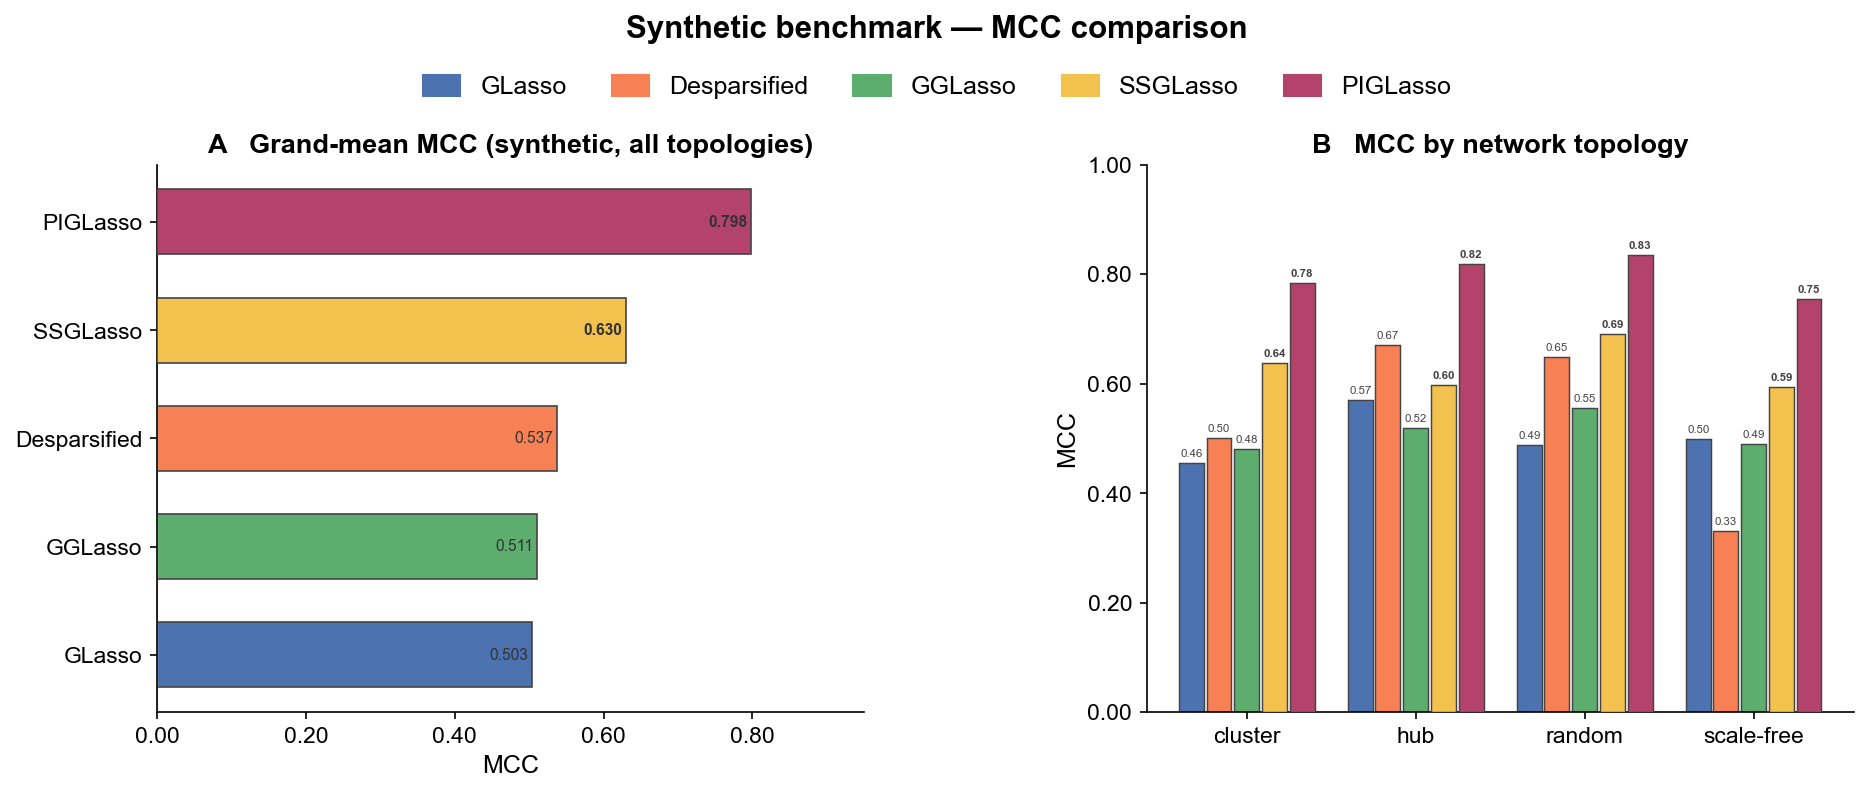
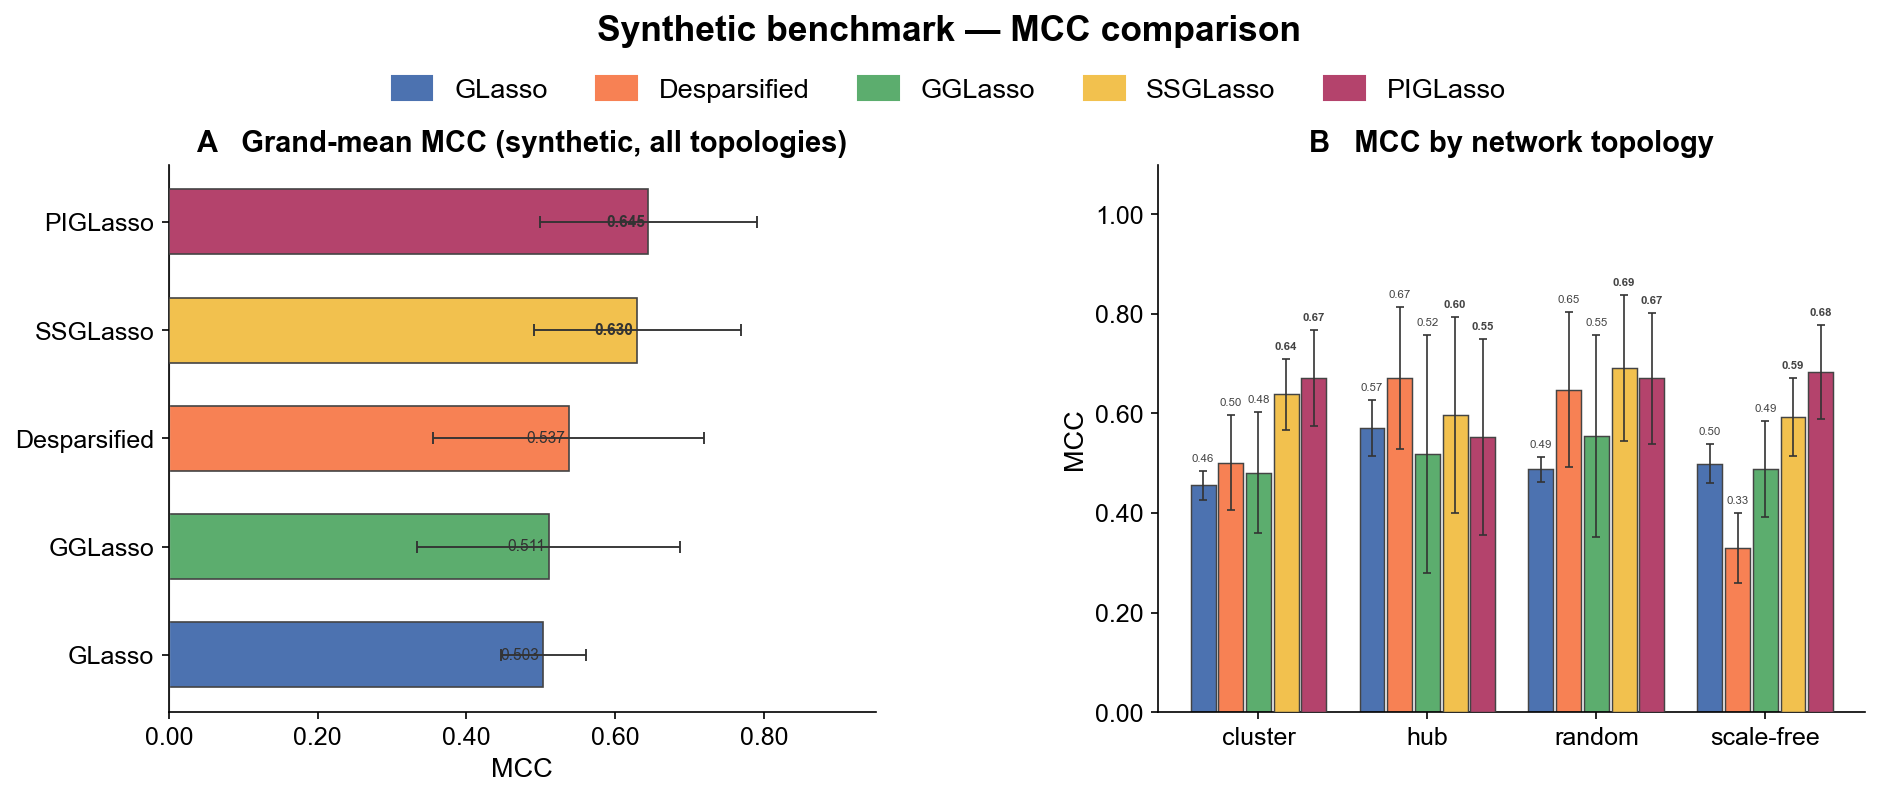
MCC vs sample size benchmark (p=160, ssglasso + piglasso_oracle_n02)
- run_synthetic.py: add ssglasso method; add 8 n-sweep configs (n100-n1500 at p=160)
- jobs/mcc_vs_n.job: SLURM array for 1280 tasks (8 n-vals x 4 topos x 2 methods x 20 reps)
- scripts/plot_mcc_vs_n.py: MCC vs n line plot with SD error bands and caps
- scripts/rebuild_metrics_summary.py: standalone local re-aggregation script
- jobs/aggregate.job: also glob glasso/gglasso/desparsified/piglasso synthetic dirs
- plot_mcc_synthetic_comparison.py: use piglasso_oracle_n02 as PIGLasso (3-config fair comparison)
- Updated metrics_summary (17863 rows) and regenerated mcc_synthetic_comparison figures

diff --git a/scripts/plot_mcc_vs_n.py b/scripts/plot_mcc_vs_n.py
@@ -1,0 +1,145 @@
+"""
+plot_mcc_vs_n.py
+-----------------
+MCC vs sample size (fixed p=160) for SSGLasso and PIGLasso.
+Reads from results/metrics_summary.csv.
+
+Usage:
+    cd NODIS/
+    python scripts/plot_mcc_vs_n.py
+    python scripts/plot_mcc_vs_n.py --out figures/mcc_vs_n.pdf
+"""
+
+import argparse
+import os
+import warnings
+
+import matplotlib
+import matplotlib.pyplot as plt
+import matplotlib.ticker as mticker
+import numpy as np
+import pandas as pd
+
+warnings.filterwarnings("ignore")
+
+matplotlib.rcParams.update({
+    "font.family":       "sans-serif",
+    "font.sans-serif":   ["Arial", "Helvetica", "DejaVu Sans"],
+    "font.size":         12,
+    "axes.labelsize":    13,
+    "axes.titlesize":    14,
+    "xtick.labelsize":   12,
+    "ytick.labelsize":   12,
+    "legend.fontsize":   12,
+    "figure.dpi":        300,
+    "axes.spines.top":   False,
+    "axes.spines.right": False,
+    "axes.linewidth":    0.8,
+    "xtick.major.width": 0.8,
+    "ytick.major.width": 0.8,
+    "xtick.major.size":  3.5,
+    "ytick.major.size":  3.5,
+    "pdf.fonttype":      42,
+    "ps.fonttype":       42,
+})
+
+N_VALS   = [100, 300, 500, 700, 900, 1100, 1300, 1500]
+P        = 160
+CONFIGS  = [f"n{n}p{P}" for n in N_VALS]
+
+METHODS = {
+    "ssglasso":            ("SSGLasso", "#F2C14E", "o"),
+    "piglasso_oracle_n02": ("PIGLasso", "#B4436C", "o"),
+}
+
+RESULTS_DIR = os.path.join(os.path.dirname(__file__), "..", "results")
+SUMMARY_CSV = os.path.join(RESULTS_DIR, "metrics_summary.csv")
+FIGURES_DIR = os.path.join(os.path.dirname(os.path.abspath(__file__)), "..", "figures")
+
+
+def build_figure(df: pd.DataFrame) -> plt.Figure:
+    sub = df[
+        (df["benchmark"] == "synthetic") &
+        (df["config"].isin(CONFIGS))
+    ].copy()
+
+    fig, ax = plt.subplots(figsize=(8, 5))
+    fig.subplots_adjust(left=0.10, right=0.97, top=0.88, bottom=0.13)
+
+    for method, (label, color, marker) in METHODS.items():
+        means, sds, ns = [], [], []
+        for n in N_VALS:
+            config = f"n{n}p{P}"
+            vals = sub.loc[
+                (sub["method"] == method) & (sub["config"] == config), "mcc"
+            ].dropna()
+            if len(vals) == 0:
+                means.append(np.nan)
+                sds.append(np.nan)
+            else:
+                means.append(vals.mean())
+                sds.append(vals.std())
+            ns.append(len(vals))
+
+        means = np.array(means)
+        sds   = np.array(sds)
+        mask  = ~np.isnan(means)
+
+        ax.plot(np.array(N_VALS)[mask], means[mask],
+                color=color, marker=marker, markersize=5,
+                linewidth=1.8, label=label, zorder=3)
+        ax.fill_between(np.array(N_VALS)[mask],
+                        (means - sds)[mask], (means + sds)[mask],
+                        color=color, alpha=0.15, zorder=2)
+        ax.errorbar(np.array(N_VALS)[mask], means[mask], yerr=sds[mask],
+                    fmt="none", ecolor=color, elinewidth=0.9,
+                    capsize=4, capthick=0.9, zorder=4)
+
+        for n, m, s in zip(np.array(N_VALS)[mask], means[mask], sds[mask]):
+            ax.text(n, m + s + 0.012, f"{m:.2f}",
+                    ha="center", va="bottom", fontsize=8, color=color)
+
+    ax.axhline(0.5, color="#bbbbbb", linewidth=0.8, linestyle="--",
+               label="Random baseline (0.5)", zorder=1)
+
+    ax.set_xlabel("Sample size (n)")
+    ax.set_ylabel("MCC")
+    ax.set_xlim(0, N_VALS[-1] + 100)
+    ax.set_ylim(0.0, 1.05)
+    ax.set_xticks(N_VALS)
+    ax.yaxis.set_major_formatter(mticker.FuncFormatter(lambda v, _: f"{v:.1f}"))
+    ax.legend(frameon=False, loc="lower right")
+    ax.set_title(f"MCC vs sample size  (p = {P}, all topologies)",
+                 fontweight="bold", pad=8)
+
+    return fig
+
+
+def main():
+    parser = argparse.ArgumentParser()
+    parser.add_argument("--out", default=os.path.join(FIGURES_DIR, "mcc_vs_n.pdf"))
+    parser.add_argument("--dpi", type=int, default=300)
+    args = parser.parse_args()
+
+    print("Loading data …")
+    df = pd.read_csv(SUMMARY_CSV, low_memory=False)
+    configs_found = df.loc[df["config"].isin(CONFIGS), "config"].unique()
+    print(f"  n-sweep configs found: {sorted(configs_found)}")
+
+    print("Building figure …")
+    fig = build_figure(df)
+
+    os.makedirs(os.path.dirname(os.path.abspath(args.out)), exist_ok=True)
+    fig.savefig(args.out, dpi=args.dpi, bbox_inches="tight")
+    print(f"Saved → {args.out}")
+
+    if args.out.endswith(".pdf"):
+        png_out = args.out.replace(".pdf", ".png")
+        fig.savefig(png_out, dpi=150, bbox_inches="tight")
+        print(f"Saved → {png_out}")
+
+    plt.close(fig)
+
+
+if __name__ == "__main__":
+    main()

diff --git a/scripts/rebuild_metrics_summary.py b/scripts/rebuild_metrics_summary.py
@@ -1,0 +1,51 @@
+"""
+Rebuild results/metrics_summary.csv from all per-method result directories.
+
+Usage (from NODIS/ root):
+    python scripts/rebuild_metrics_summary.py
+"""
+import pathlib
+import pandas as pd
+
+NODIS_DIR = pathlib.Path(__file__).resolve().parents[1]
+results = NODIS_DIR / "results"
+summary_path = results / "metrics_summary.csv"
+
+sections = {
+    "synthetic": (list(results.glob("raw/results_*.csv")) +
+                  list(results.glob("glasso/synthetic/results_*.csv")) +
+                  list(results.glob("gglasso/synthetic/results_*.csv")) +
+                  list(results.glob("desparsified/synthetic/results_*.csv")) +
+                  list(results.glob("piglasso/synthetic/results_*.csv"))),
+    "dream5":    list(results.glob("dream5/dream5_*.csv")),
+    "diffusion": list(results.glob("diffusion/diffusion_*.csv")),
+    "sergio":    list(results.glob("sergio/sergio_*.csv")),
+}
+
+new_dfs = []
+found_benchmarks = set()
+for source, files in sections.items():
+    if not files:
+        print(f"  {source}: no files found — skipping")
+        continue
+    df = pd.concat([pd.read_csv(f) for f in files], ignore_index=True)
+    df["benchmark"] = source
+    new_dfs.append(df)
+    found_benchmarks.add(source)
+    print(f"  {source}: {len(files)} files, {len(df)} rows")
+
+if not new_dfs:
+    print("No result files found.")
+else:
+    new_data = pd.concat(new_dfs, ignore_index=True)
+
+    if summary_path.exists():
+        existing = pd.read_csv(summary_path)
+        keep = existing[~existing["benchmark"].isin(found_benchmarks)]
+        print(f"  preserving {len(keep)} existing rows from untouched benchmarks")
+        summary = pd.concat([keep, new_data], ignore_index=True)
+    else:
+        summary = new_data
+
+    summary.to_csv(summary_path, index=False)
+    print(f"Saved {len(summary)} total rows → {summary_path}")

diff --git a/scripts/plot_mcc_synthetic_comparison.py b/scripts/plot_mcc_synthetic_comparison.py
@@ -96,7 +96,7 @@ FIGURES_DIR = os.path.join(os.path.dirname(os.path.abspath(__file__)), "..", "fi
 # ---------------------------------------------------------------------------
 
 def _grand_means(df: pd.DataFrame) -> pd.DataFrame:
-    """Mean MCC across small3 configs, all topologies, per method."""
+    """Mean ± SD MCC across small3 configs, all topologies, per method."""
     small3 = df[
         (df["benchmark"] == "synthetic") &
         (df["config"].isin(CONFIGS_SMALL3))
@@ -105,12 +105,12 @@ def _grand_means(df: pd.DataFrame) -> pd.DataFrame:
     for m in METHODS_ORDER:
         vals = small3.loc[small3["method"] == m, "mcc"].dropna()
         if len(vals):
-            rows.append({"method": m, "MCC": vals.mean()})
+            rows.append({"method": m, "MCC": vals.mean(), "SD": vals.std()})
     return pd.DataFrame(rows)
 
 
 def _per_topology(df: pd.DataFrame) -> pd.DataFrame:
-    """Mean MCC per (method, topology) across small3 configs."""
+    """Mean ± SD MCC per (method, topology) across small3 configs."""
     small3 = df[
         (df["benchmark"] == "synthetic") &
         (df["config"].isin(CONFIGS_SMALL3))
@@ -122,7 +122,8 @@ def _per_topology(df: pd.DataFrame) -> pd.DataFrame:
                 (small3["method"] == m) & (small3["topology"] == topo), "mcc"
             ].dropna()
             if len(vals):
-                rows.append({"method": m, "topology": topo, "MCC": vals.mean()})
+                rows.append({"method": m, "topology": topo,
+                             "MCC": vals.mean(), "SD": vals.std()})
     return pd.DataFrame(rows)
 
 
@@ -134,15 +135,18 @@ def _grand_mean_bars(ax, grand: pd.DataFrame, title: str):
     grand = grand.sort_values("MCC", ascending=True).reset_index(drop=True)
     methods = grand["method"].tolist()
     values  = grand["MCC"].tolist()
+    sds     = grand["SD"].tolist()
     n = len(methods)
 
-    for i, (m, v) in enumerate(zip(methods, values)):
+    for i, (m, v, sd) in enumerate(zip(methods, values, sds)):
         color = PALETTE[m]
         lw    = 0.8
         ec    = "#444444"
         zo    = ZO_PIG if m in PIG_METHODS else ZO_BASE
         ax.barh(i, v, color=color, edgecolor=ec, linewidth=lw,
                 zorder=zo, height=0.6)
+        ax.errorbar(v, i, xerr=sd, fmt="none", ecolor="#333333",
+                    elinewidth=0.9, capsize=3, capthick=0.9, zorder=zo + 1)
 
         ax.text(v - 0.005, i, f"{v:.3f}", va="center", ha="right",
                 fontsize=7.5,
@@ -177,6 +181,7 @@ def _per_topology_bars(ax, per_topo: pd.DataFrame, title: str):
             if row.empty:
                 continue
             v     = float(row["MCC"].iloc[0])
+            sd    = float(row["SD"].iloc[0])
             xp    = ti + offsets[mi]
             color = PALETTE[m]
             lw    = 0.7
@@ -184,8 +189,10 @@ def _per_topology_bars(ax, per_topo: pd.DataFrame, title: str):
             zo    = ZO_PIG if m in PIG_METHODS else ZO_BASE
             ax.bar(xp, v, bw * 0.90, color=color, edgecolor=ec,
                    linewidth=lw, zorder=zo)
+            ax.errorbar(xp, v, yerr=sd, fmt="none", ecolor="#333333",
+                        elinewidth=0.8, capsize=2, capthick=0.8, zorder=zo + 1)
 
-            ax.text(xp, v + 0.008, f"{v:.2f}", ha="center", va="bottom",
+            ax.text(xp, v + sd + 0.015, f"{v:.2f}", ha="center", va="bottom",
                     fontsize=5.5,
                     color="#444444",
                     fontweight="bold" if m in PIG_METHODS else "normal")
@@ -193,7 +200,7 @@ def _per_topology_bars(ax, per_topo: pd.DataFrame, title: str):
     ax.set_xticks(np.arange(n_topo))
     ax.set_xticklabels([t for t in TOPOS])
     ax.set_ylabel("MCC")
-    ax.set_ylim(0, 1.00)
+    ax.set_ylim(0, 1.10)
     ax.yaxis.set_major_formatter(mticker.FuncFormatter(lambda v, _: f"{v:.2f}"))
     ax.set_title(title, pad=6, fontweight="bold")
     ax.axhline(0, color="#bbbbbb", linewidth=0.6)

diff --git a/benchmarks/run_synthetic.py b/benchmarks/run_synthetic.py
@@ -28,6 +28,15 @@ CONFIGS = {
     "n237p78":   (237, 78),
     "n513p164":  (513, 164),
     "n1026p328": (1026, 328),
+    # n-sweep configs: fixed p=160, varying n
+    "n100p160":  (100,  160),
+    "n300p160":  (300,  160),
+    "n500p160":  (500,  160),
+    "n700p160":  (700,  160),
+    "n900p160":  (900,  160),
+    "n1100p160": (1100, 160),
+    "n1300p160": (1300, 160),
+    "n1500p160": (1500, 160),
 }
 
 
@@ -38,6 +47,7 @@ def main() -> None:
     parser.add_argument("--config", required=True, choices=list(CONFIGS))
     parser.add_argument("--method", required=True,
                         choices=["desparsified", "glasso", "gglasso", "silggm_r",
+                                 "ssglasso",
                                  "piglasso", "piglasso_adaptive", "piglasso_corr",
                                  "piglasso_oracle",
                                  "piglasso_oracle_n00", "piglasso_oracle_n01",
@@ -116,6 +126,13 @@ def main() -> None:
         r_res = run_silggm_r(data.X, method="B_NW_SL", alpha=args.alpha)
         adj = r_res["adj"]
         scores = np.abs(r_res["z_score"])
+
+    elif args.method == "ssglasso":
+        from nodis.estimators.piglasso import PIGLassoEstimator
+        est = PIGLassoEstimator(n_jobs=args.n_jobs)
+        est.fit(data.X)
+        adj = est.get_adjacency()
+        scores = est.precision_
 
     elif args.method == "piglasso":
         from nodis.estimators.piglasso import PIGLassoEstimator